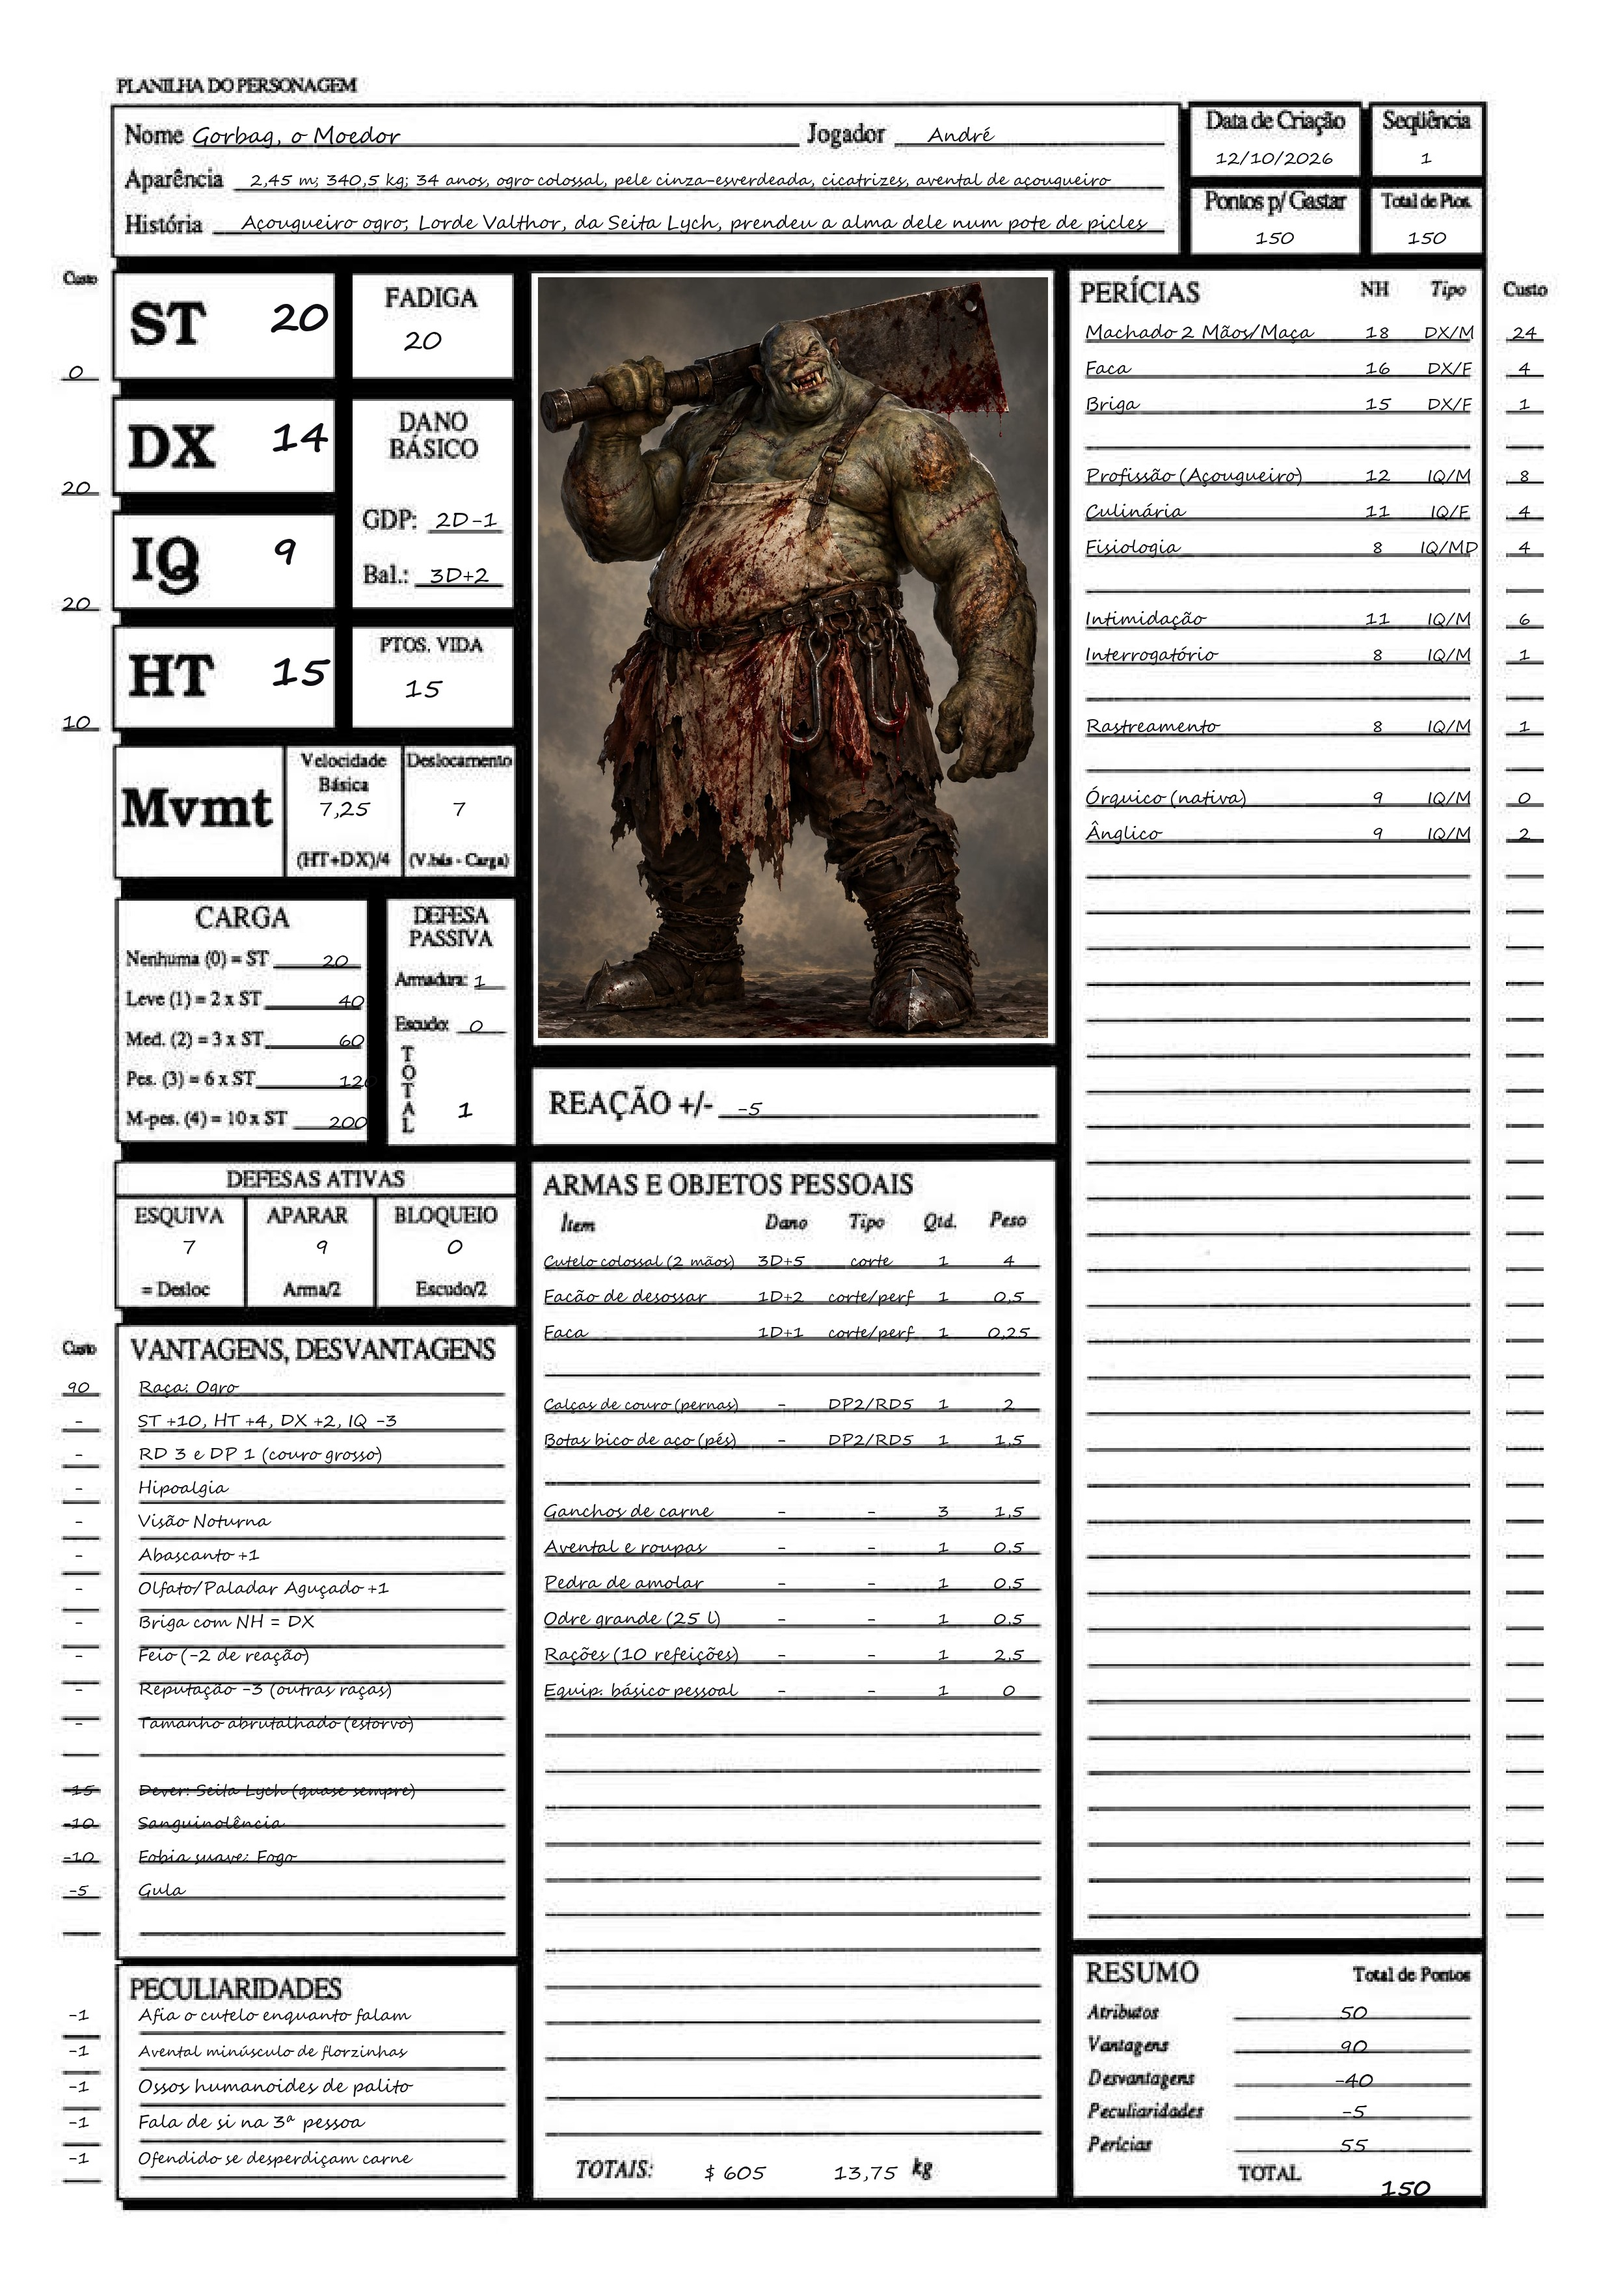
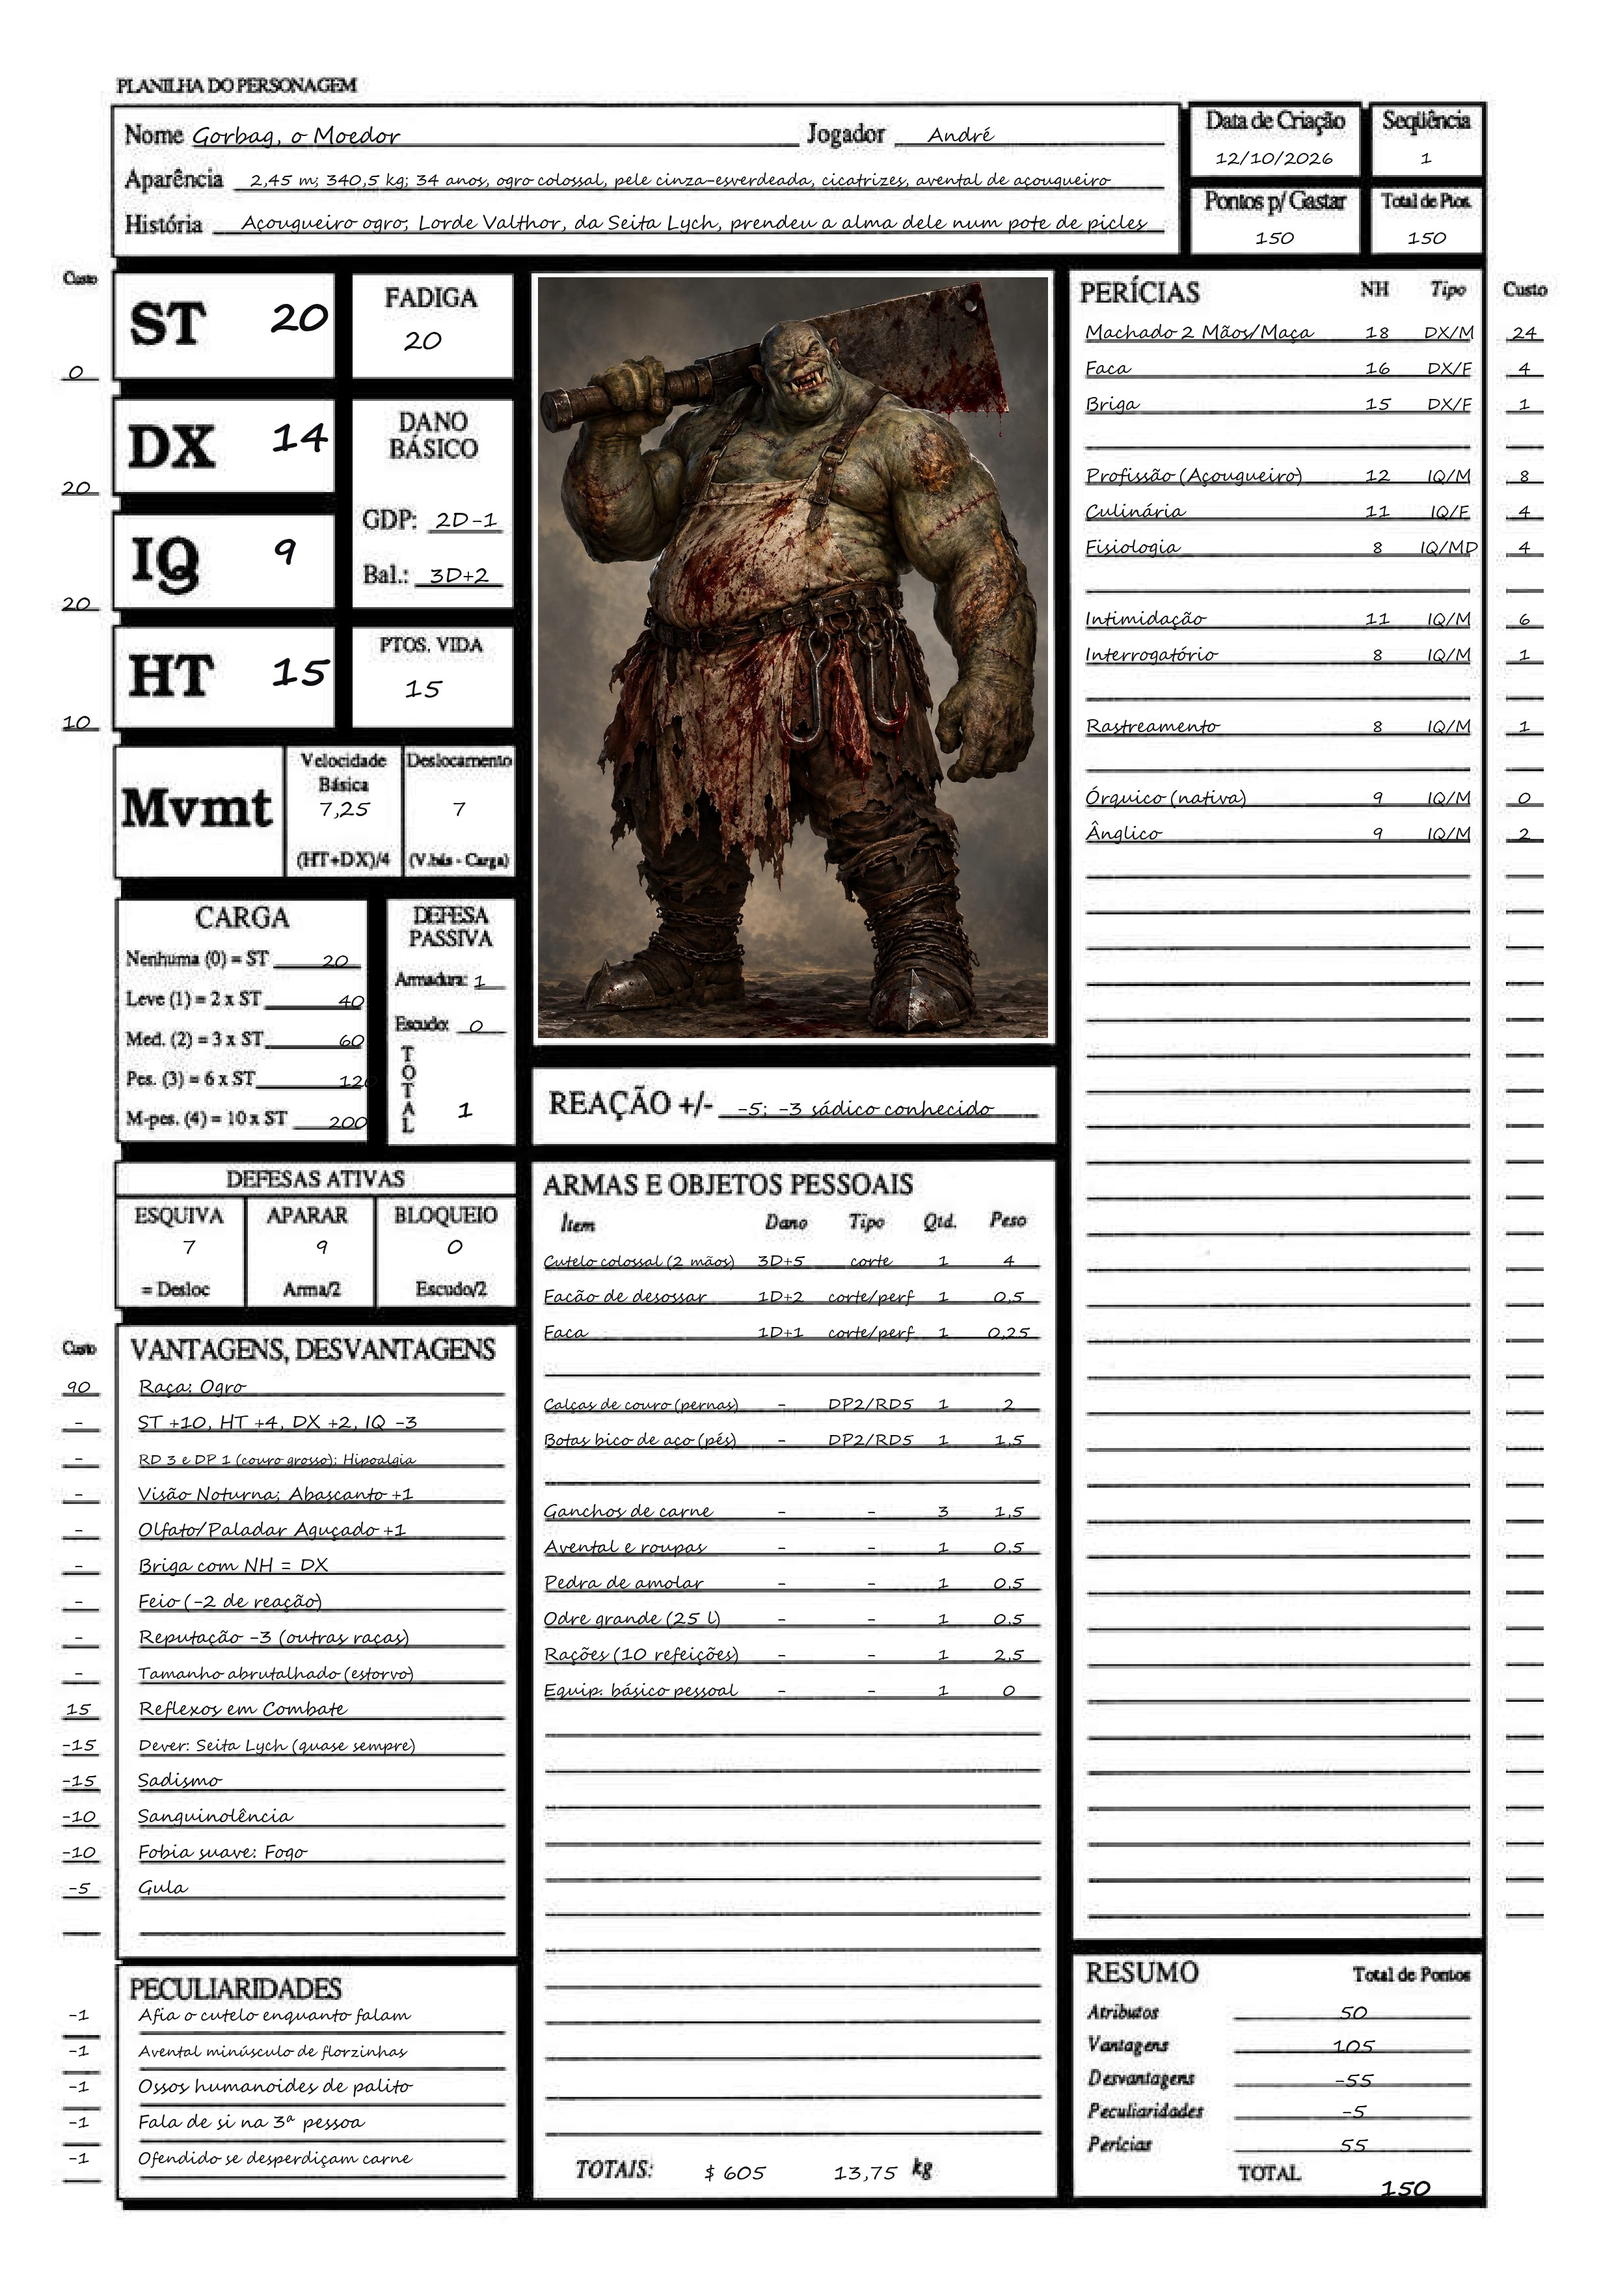
personagens: Gorbag com Reflexos em Combate e Sadismo
Ficha refeita a partir do markdown editado pelo Mestre: vantagens 105,
desvantagens -55, reação -5 (-3 sádico conhecido); ficha.jpg regerada.

Claude-Session: https://claude.ai/code/session_01DRV6Y9Vs8oLS3bBJ9WzfrZ

Changed region(s): [[0.0931, 0.5904, 0.2483, 0.8389]]

diff --git a/personagens/gorbag-o-moedor/personagem.md b/personagens/gorbag-o-moedor/personagem.md
@@ -1,6 +1,6 @@
 # Gorbag, o Moedor
 
-**Jogador:** André · **Raça:** Ogro (*GURPS Fantasy*, 90 pts) · **Arquétipo:** Guerreiro, linha de frente (*Módulo Básico*, "Tipos de Personagens") · **Pontos:** 150/150
+**Jogador:** a definir · **Raça:** Ogro (*GURPS Fantasy*, 90 pts) · **Arquétipo:** Guerreiro, linha de frente (*Módulo Básico*, "Tipos de Personagens") · **Pontos:** 150/150
 
 ## Aparência
 
@@ -62,8 +62,9 @@ profissionalismo impecável quando o assunto é desmembrar.
   Nas pernas e nos pés vale a regra de Armaduras Sobrepostas (MB, `07-equipamento-e-carga.md`):
   a camada de dentro, aqui a pele, **soma RD mas não DP**. Por isso fica DP 2, não 3. A última
   palavra é do Mestre.
-- **Esquiva:** 7 · **Aparar (cutelo):** 9 · **Bloqueio:** —
+- **Esquiva:** 7 · **Aparar (cutelo):** 9 · **Bloqueio:** — (+1 de Reflexos em Combate na hora da defesa: 8 e 10)
 - **Reação básica:** −5 (Feio −2, Reputação −3 entre as outras raças). Com orcs e ogros, só o −2.
+  Quem souber do Sadismo dele soma mais −3.
 
 ## Vantagens e Desvantagens
 
@@ -80,16 +81,27 @@ profissionalismo impecável quando o assunto é desmembrar.
 | — Feio (−2 de reação) | - |
 | — Reputação −3 (outras raças) | - |
 | — Tamanho abrutalhado (estorvo) | - |
+| Reflexos em Combate | +15 |
 | Dever (Seita Lych, quase sempre) | −15 |
+| Sadismo | −15 |
 | Sanguinolência | −10 |
 | Fobia suave (Fogo) | −10 |
 | Gula | −5 |
 
-**Vantagens: 90 pontos · Desvantagens: −40 pontos** (no limite da mesa).
+**Vantagens: 105 pontos · Desvantagens: −55 pontos.** O Sadismo entrou depois da criação para
+pagar os Reflexos em Combate, e a coluna passou do teto de −40 da mesa: precisa do aval do Mestre.
 
 Notas de arbitragem:
 - **Dever (Seita Lych)** — "quase todo o tempo" (15 ou menos): a seita o chama e ele vai,
   porque a alma está no pote. Arrisca a vida, então vale os −15 do livro.
+- **Reflexos em Combate** — +1 em todas as defesas ativas (Esquiva 8, Aparar 9 → 10 na hora da
+  defesa; a ficha guarda os números sem o bônus, que a `resolver-defesa` soma), +2 nas
+  Verificações de Pânico (a da Fobia de Fogo inclusive), +1 em Sacar Rápido, nunca fica
+  paralisado de surpresa e ganha +6 para sair de atordoamento mental.
+- **Sadismo** — sente prazer em fazer sofrer. Quando pode, mas sabe que não deve (um prisioneiro
+  que tem de sair ileso), teste de Vontade (9) para se conter. Quem souber que ele é sádico
+  reage com −3, salvo culturas que dão pouco valor à vida. O livro avisa que é traço de vilão; o
+  Mestre pode vetar.
 - **Sanguinolência** — teste de Vontade (9) para aceitar rendição ou fazer prisioneiro.
 - **Fobia suave (Fogo)** — o MB não traz a fobia de fogo na lista das comuns; o custo de −10
   segue as de frequência parecida (Altura, Ruídos Altos) e fica para o Mestre confirmar.
@@ -142,9 +154,12 @@ Notas de cálculo:
   exibição de força e sede de sangue. Na prática, contra gente comum, ele intimida com 15 a 17.
 - **Línguas:** o órquico das tribos onde nasceu, de graça; o ânglico com sotaque pesado.
 
-Em combate: cutelo de duas mãos com 3D+5 de corte. A tabela marca a arma com "1 turno p/
-preparar" e com †: ela fica despreparada se for usada para aparar (MB, tabela de armas de mão).
-Hipoalgia ignora o redutor de ferimento no turno seguinte.
+Em combate: cutelo de duas mãos com 3D+5 de corte. A tabela marca o machado com "1 turno p/
+preparar", mas **com ST 20 o Gorbag não precisa prepará-lo**: a ST mínima da arma é 13, e quem
+tem 5 ou mais pontos acima dela prepara uma arma desbalanceada com um turno a menos (MB,
+`11-combate-avancado.md`, "Preparação Rápida Devido a um Alto Valor de ST"). Ele ataca todo
+turno e pode aparar e atacar com o cutelo no mesmo turno. Hipoalgia ignora o redutor de
+ferimento no turno seguinte.
 
 ## Equipamento
 
@@ -166,7 +181,7 @@ Hipoalgia ignora o redutor de ferimento no turno seguinte.
 **TOTAIS:** $395 gastos · 13,75 kg. Riqueza Média ($1.000) − $395 = **$605** na bolsa.
 
 O cutelo usa a linha do **Machado de duas mãos** do MB (BAL+3, corte, ST mínima 13, 1 turno para
-preparar). Facão e faca têm o dano limitado pelo teto da tabela (1D+2 e 1D+1), por mais forte
+preparar, que a ST 20 dele dispensa). Facão e faca têm o dano limitado pelo teto da tabela (1D+2 e 1D+1), por mais forte
 que seja a mão. Os ganchos de carne não estão na tabela de preços; $15 é estimativa, a confirmar
 com o Mestre. O pote com a alma **não** está com ele: está com Valthor.
 
@@ -175,8 +190,8 @@ com o Mestre. O pote com a alma **não** está com ele: está com Valthor.
 | Categoria | Pontos |
 |---|---|
 | Atributos | 50 |
-| Vantagens | 90 |
-| Desvantagens | −40 |
+| Vantagens | 105 |
+| Desvantagens | −55 |
 | Peculiaridades | −5 |
 | Perícias | 55 |
 | **Total** | **150** |
